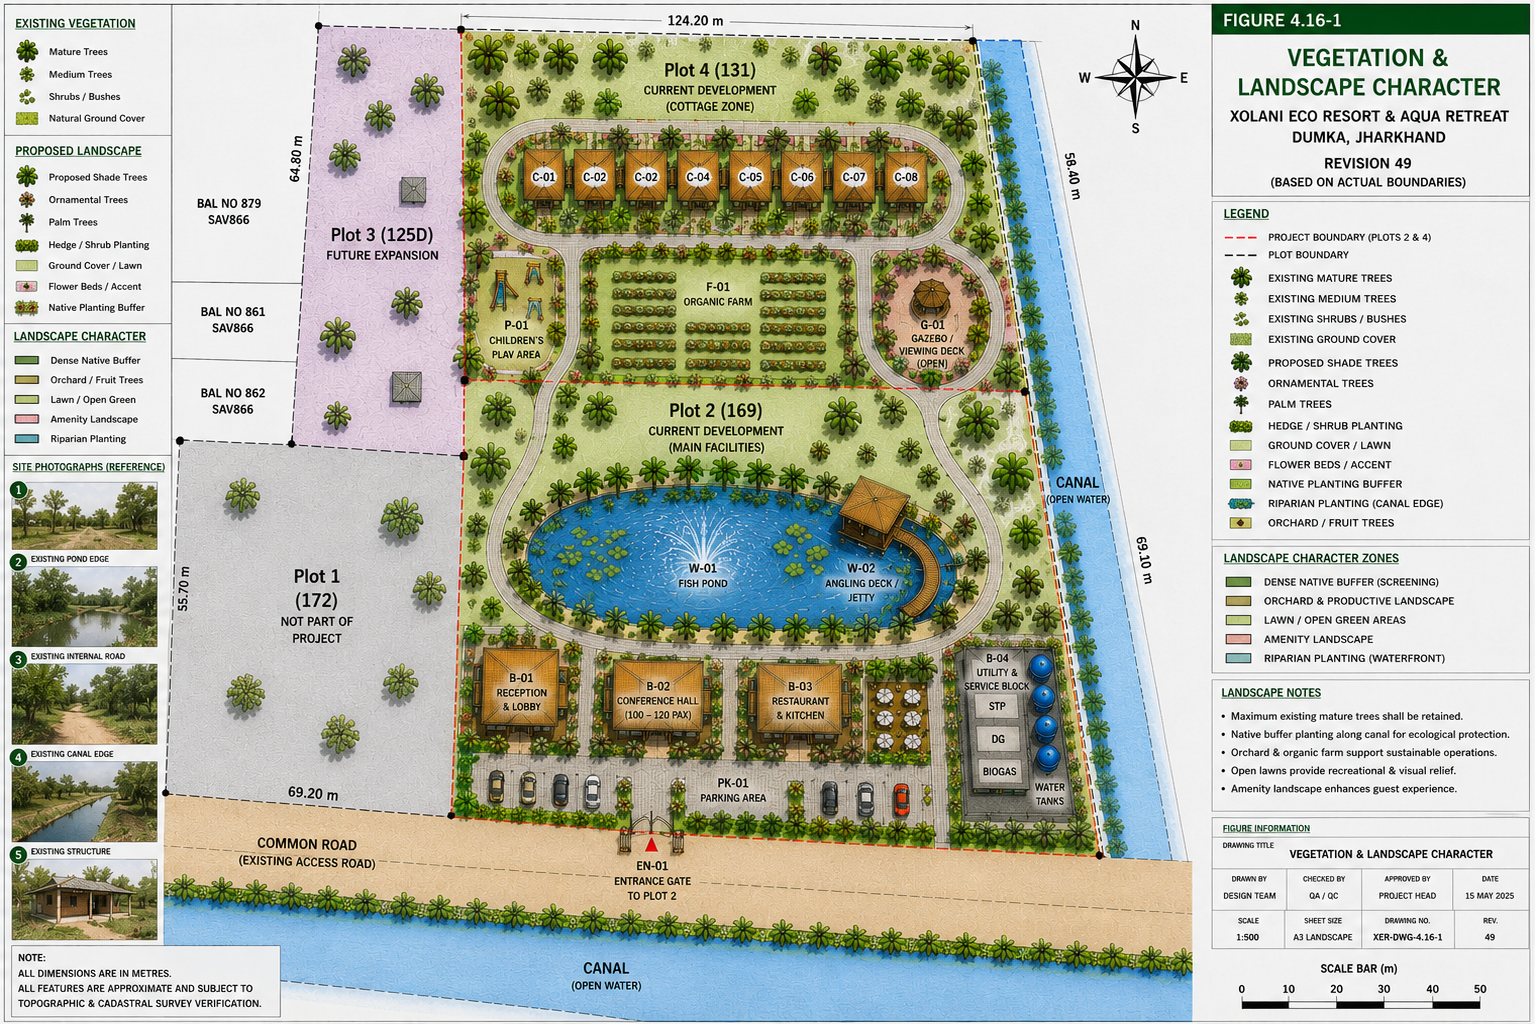
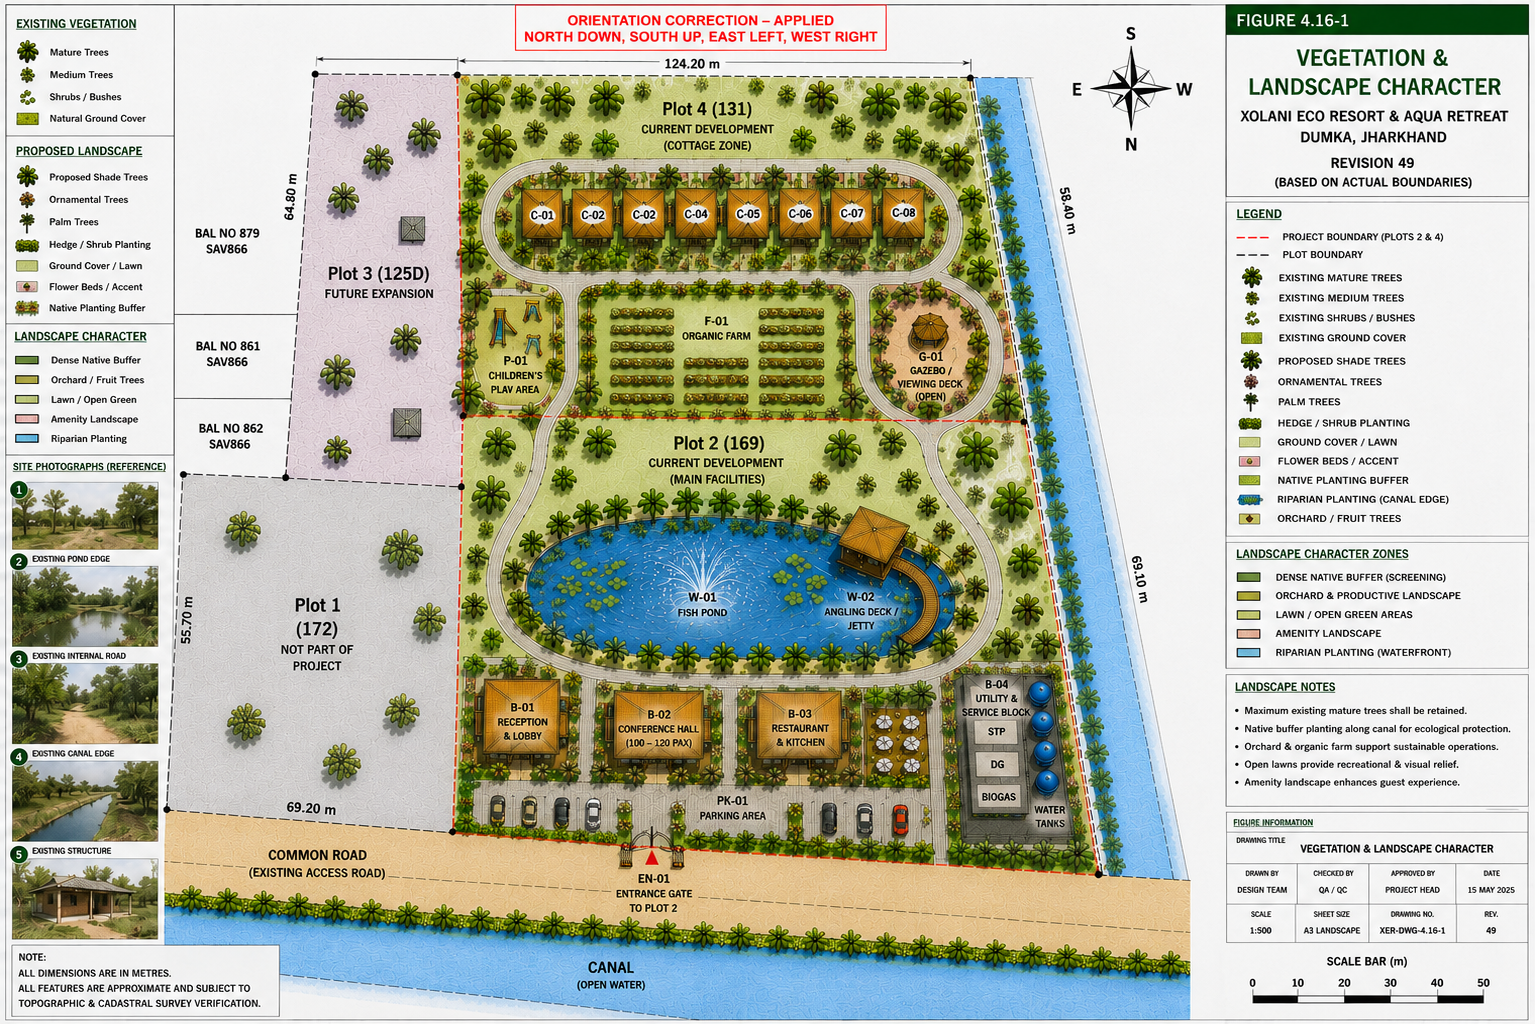
Approve AST-000018 Vegetation and Landscape Character and DAR-018

diff --git a/engineering/DAR/DAR-018/DAR-018_Drawing_Analysis_Report.md b/engineering/DAR/DAR-018/DAR-018_Drawing_Analysis_Report.md
@@ -1,0 +1,42 @@
+# DAR-018 ? Drawing Analysis Report
+
+## Controlled Asset
+
+- Asset ID: AST-000018
+- Original Filename: ChatGPT Image Jul 17, 2026, 05_16_35 PM.png
+- Repository Path: drawings/Current/ChatGPT Image Jul 17, 2026, 05_16_35 PM.png
+- DAR Reference: DAR-018
+
+## Drawing Identity
+
+- Figure: Figure 4.16-1
+- Title: VEGETATION & LANDSCAPE CHARACTER
+- Drawing Number: XER-DWG-4.16-1
+- Revision: 49
+- Date: 15 MAY 2025
+- Sheet: A3 Landscape
+- Scale: 1:500
+
+## Approved Status
+
+APPROVED
+
+The drawing was reviewed and approved after correction of the compass orientation.
+
+## Compass Control
+
+The approved project orientation is:
+
+- North - down
+- South - up
+- East - left
+- West - right
+
+The compass correction is the only approved graphical correction.
+
+All other drawing content is retained as approved.
+
+## Role
+
+AST-000018 is controlled as the Vegetation & Landscape Character drawing, Figure 4.16-1.
+
